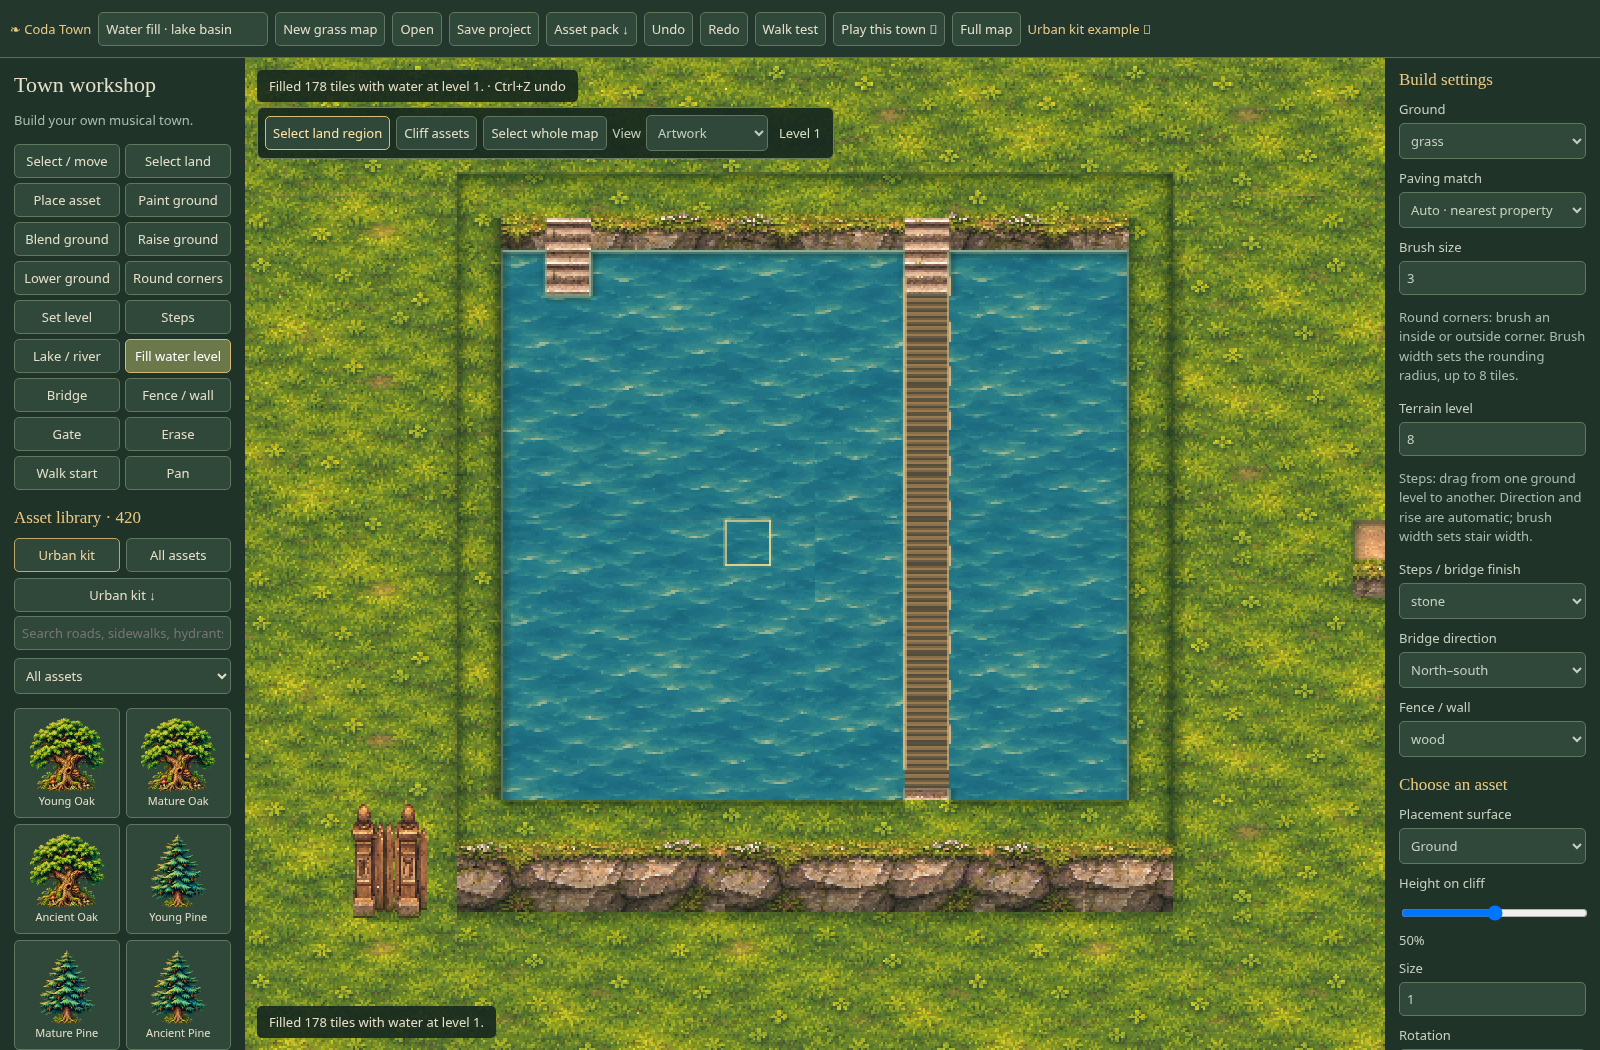
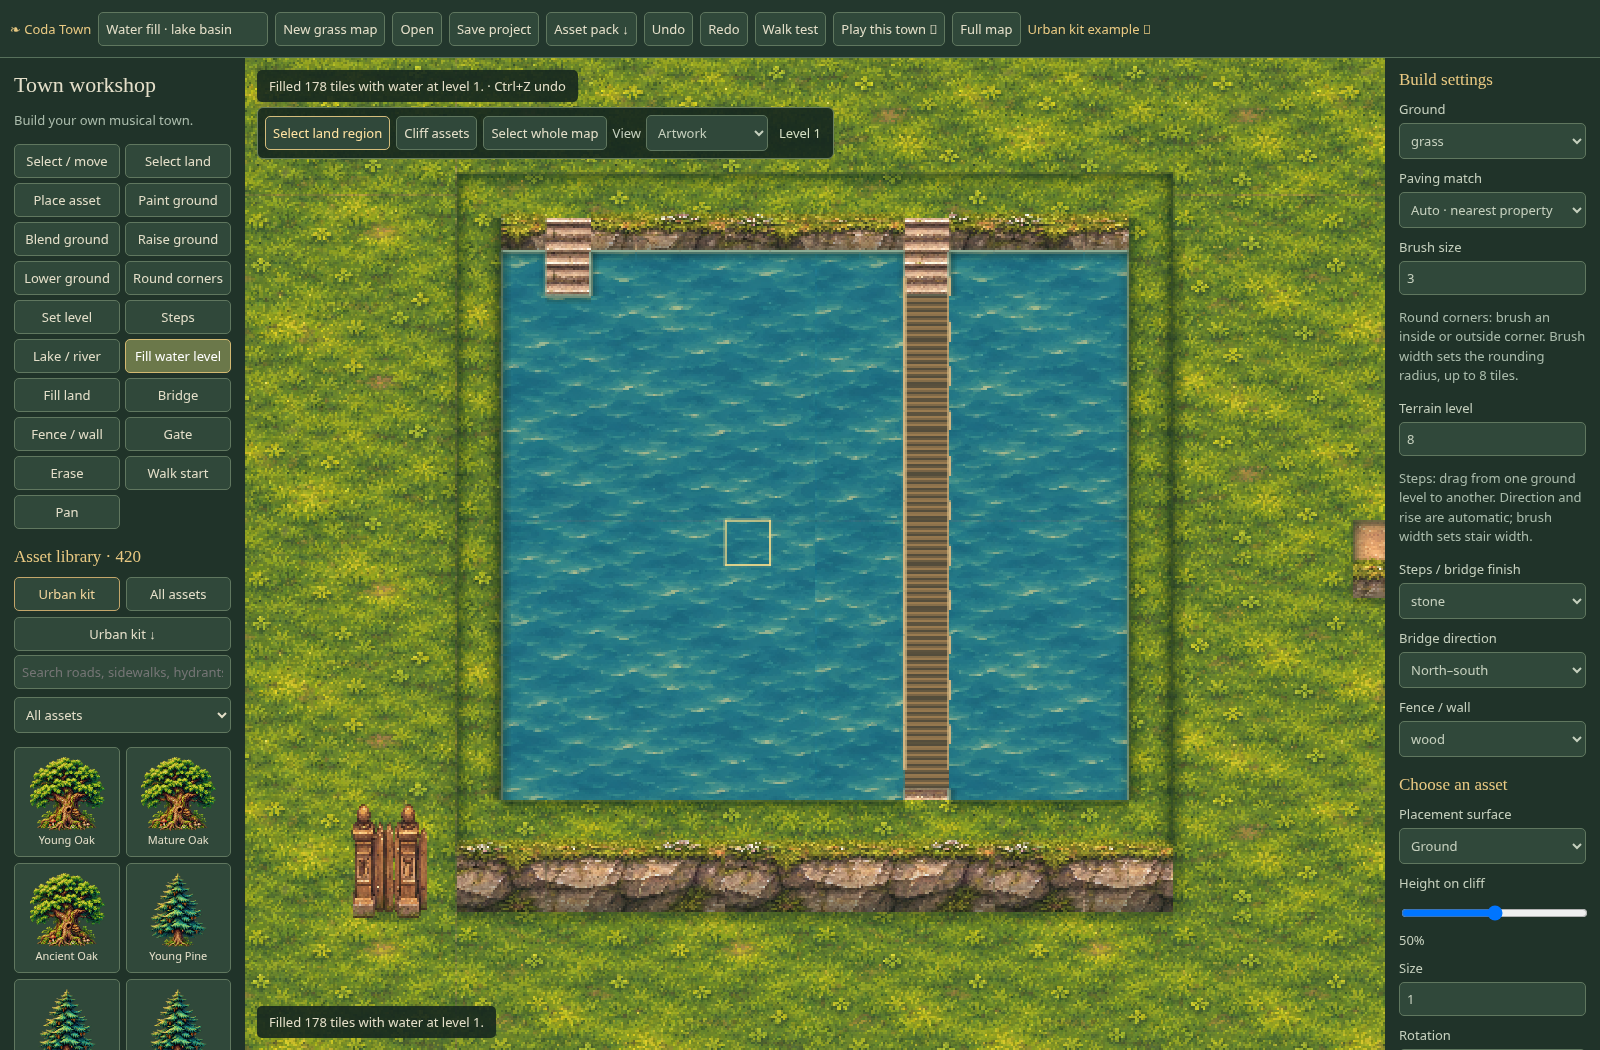
Add land fill for reclaiming water with selected ground materials

Changed region(s): [[0.0, 0.4876, 0.1562, 1.0], [0.0938, 0.3657, 0.125, 0.4571], [0.0312, 0.3657, 0.0625, 0.4571]]

diff --git a/town/builder/index.html b/town/builder/index.html
@@ -1,3 +1,3 @@
 <!doctype html><html lang="en"><head><meta charset="utf-8"><meta name="viewport" content="width=device-width,initial-scale=1"><title>Coda Town · Builder</title><link rel="stylesheet" href="builder.css?v=urban-assets-2"></head><body>
 <header><a href="../">❧ Coda Town</a><input id="name" value="My Coda Town" aria-label="Town name" maxlength="100"><button id="new">New grass map</button><button id="open">Open</button><button id="save">Save project</button><button id="pack">Asset pack ↓</button><button id="undo">Undo</button><button id="redo">Redo</button><button id="walk">Walk test</button><button id="play">Play this town ↗</button><button id="fit">Full map</button><a href="../?urban=1" id="urbanTour">Urban kit example ↗</a></header>
-<main><aside><h1>Town workshop</h1><p>Build your own musical town.</p><div id="tools"></div><h2 id="assetLibraryTitle">Asset library</h2><div id="libraryShortcuts"><button id="urbanKit">Urban kit</button><button id="allAssets">All assets</button><button id="urbanPack">Urban kit ↓</button></div><p id="urbanKitHelp" hidden>Place buildings and street details. Road pieces snap together; rotate them in Build settings. Paint materials work with square tiles or a soft brush.</p><input id="search" placeholder="Search roads, sidewalks, hydrants…" aria-label="Search assets"><select id="category" aria-label="Asset category"><option value="">All assets</option></select><div id="library"></div></aside><section id="viewport"><canvas id="map" tabindex="0" aria-label="Town building canvas"></canvas><div id="mapTools"><button id="selectLand">Select land region</button><button id="cliffMount">Cliff assets</button><button id="cornerStyle" hidden>Corners: Smooth round ↻</button><button id="selectAllLand">Select whole map</button><label>View <select id="heightView"><option value="art">Artwork</option><option value="colors">Height colors</option><option value="plan">Elevation plan</option></select></label><span id="hoverLevel">Level 0</span></div><div id="heightLegend" hidden><b>Ground levels</b><div id="levelSwatches"></div><small>Lines mark height changes · arrows mark stairs</small></div><div id="hint">Drag to paint · right drag to pan · wheel to zoom</div><div id="status" role="status">Loading artwork…</div></section><aside id="inspector"><h2>Land selection</h2><label>Selection shape<select id="selectionShape"><option value="rectangle">Rectangle</option><option value="freeform">Freeform lasso</option></select></label><p id="regionInfo">Drag a rectangle or draw a freeform boundary in any view.</p><button id="raiseRegion" disabled>Raise selected land +1</button><button id="lowerRegion" disabled>Lower selected land −1</button><button id="clearRegion" disabled>Clear selection</button><h2 id="buildSettingsTitle">Build settings</h2><label>Ground<select id="surface"></select></label><label>Paving match<select id="paving"><option value="auto">Auto · nearest property</option></select></label><label>Brush size <input id="brush" type="number" min=".25" max="15" step=".25" value="3"></label><div id="groundBrushSettings" hidden><label>Painting shape<select id="groundShape"><option value="round">Round soft brush</option><option value="square">Square tiles</option></select></label><div id="softGroundControls"><label>Hardness <output id="brushHardnessValue">45%</output><input id="brushHardness" type="range" min="0" max="100" value="45"></label><label>Opacity / blend strength <output id="brushOpacityValue">100%</output><input id="brushOpacity" type="range" min="1" max="100" value="100"></label></div><p id="groundBrushHelp">Paint with a round, soft-edged brush. Blend ground softens existing material transitions. Water uses Lake / river.</p></div><p>Round corners: brush an inside or outside corner. Brush width sets the rounding radius, up to 8 tiles.</p><label>Terrain level <input id="level" type="number" min="0" max="8" value="1"></label><p>Steps: drag from one ground level to another. Direction and rise are automatic; brush width sets stair width.</p><label>Steps / bridge finish<select id="finish"><option>stone</option><option>wood</option><option>brick</option></select></label><label>Bridge direction<select id="bridge"><option value="ns">North–south</option><option value="ew">East–west</option></select></label><label>Fence / wall<select id="barrier"></select></label><h2 id="assetName">Choose an asset</h2><label>Placement surface<select id="mountSurface"><option value="ground">Ground</option><option value="cliff">Cliff face · south-facing</option></select></label><label>Height on cliff<input id="mountHeight" type="range" min="0" max="100" value="50"><span id="mountHeightLabel">50%</span></label><label>Size<input id="scale" type="number" min=".25" max="3" step=".25" value="1"></label><label>Rotation<select id="rotation"><option>0</option><option>90</option><option>180</option><option>270</option></select></label><label>Layer<select id="layer"><option>objects</option><option>overgrowth</option><option>ground</option></select></label><label><input id="collision" type="checkbox" checked> Asset collision</label><button id="duplicate">Duplicate selected</button><button id="delete">Delete selected</button><label><input id="grid" type="checkbox"> Grid</label><label><input id="showCollision" type="checkbox"> Show collision</label><p>Fill water level: click ground to flood its connected height. Height changes stop the fill; Undo restores it. Lake / river remains available for brush painting.</p><p>Raised ground blocks walking at cliff edges. Steps connect the ground levels you drag between. Water blocks walking; bridges cross it. E opens gates during walk test.</p><p>Fences snap to cell edges. Drag an L to join corners. Foliage uses the overgrowth layer.</p><p>Projects autosave in this browser. Save a project file for a portable backup.</p></aside></main><input id="file" type="file" accept=".json" hidden><script src="../../npc-visitors.js"></script><script src="../../character-renderer.js?v=urban-assets-2"></script><script src="../../furniture-catalog.js?v=urban-assets-2"></script><script src="../../notes-shop.js?v=urban-assets-2"></script><script type="module" src="app.mjs?v=water-fill-1"></script></body></html>
+<main><aside><h1>Town workshop</h1><p>Build your own musical town.</p><div id="tools"></div><h2 id="assetLibraryTitle">Asset library</h2><div id="libraryShortcuts"><button id="urbanKit">Urban kit</button><button id="allAssets">All assets</button><button id="urbanPack">Urban kit ↓</button></div><p id="urbanKitHelp" hidden>Place buildings and street details. Road pieces snap together; rotate them in Build settings. Paint materials work with square tiles or a soft brush.</p><input id="search" placeholder="Search roads, sidewalks, hydrants…" aria-label="Search assets"><select id="category" aria-label="Asset category"><option value="">All assets</option></select><div id="library"></div></aside><section id="viewport"><canvas id="map" tabindex="0" aria-label="Town building canvas"></canvas><div id="mapTools"><button id="selectLand">Select land region</button><button id="cliffMount">Cliff assets</button><button id="cornerStyle" hidden>Corners: Smooth round ↻</button><button id="selectAllLand">Select whole map</button><label>View <select id="heightView"><option value="art">Artwork</option><option value="colors">Height colors</option><option value="plan">Elevation plan</option></select></label><span id="hoverLevel">Level 0</span></div><div id="heightLegend" hidden><b>Ground levels</b><div id="levelSwatches"></div><small>Lines mark height changes · arrows mark stairs</small></div><div id="hint">Drag to paint · right drag to pan · wheel to zoom</div><div id="status" role="status">Loading artwork…</div></section><aside id="inspector"><h2>Land selection</h2><label>Selection shape<select id="selectionShape"><option value="rectangle">Rectangle</option><option value="freeform">Freeform lasso</option></select></label><p id="regionInfo">Drag a rectangle or draw a freeform boundary in any view.</p><button id="raiseRegion" disabled>Raise selected land +1</button><button id="lowerRegion" disabled>Lower selected land −1</button><button id="clearRegion" disabled>Clear selection</button><h2 id="buildSettingsTitle">Build settings</h2><label>Ground<select id="surface"></select></label><label>Paving match<select id="paving"><option value="auto">Auto · nearest property</option></select></label><label>Brush size <input id="brush" type="number" min=".25" max="15" step=".25" value="3"></label><div id="groundBrushSettings" hidden><label>Painting shape<select id="groundShape"><option value="round">Round soft brush</option><option value="square">Square tiles</option></select></label><div id="softGroundControls"><label>Hardness <output id="brushHardnessValue">45%</output><input id="brushHardness" type="range" min="0" max="100" value="45"></label><label>Opacity / blend strength <output id="brushOpacityValue">100%</output><input id="brushOpacity" type="range" min="1" max="100" value="100"></label></div><p id="groundBrushHelp">Paint with a round, soft-edged brush. Blend ground softens existing material transitions. Water uses Lake / river.</p></div><p>Round corners: brush an inside or outside corner. Brush width sets the rounding radius, up to 8 tiles.</p><label>Terrain level <input id="level" type="number" min="0" max="8" value="1"></label><p>Steps: drag from one ground level to another. Direction and rise are automatic; brush width sets stair width.</p><label>Steps / bridge finish<select id="finish"><option>stone</option><option>wood</option><option>brick</option></select></label><label>Bridge direction<select id="bridge"><option value="ns">North–south</option><option value="ew">East–west</option></select></label><label>Fence / wall<select id="barrier"></select></label><h2 id="assetName">Choose an asset</h2><label>Placement surface<select id="mountSurface"><option value="ground">Ground</option><option value="cliff">Cliff face · south-facing</option></select></label><label>Height on cliff<input id="mountHeight" type="range" min="0" max="100" value="50"><span id="mountHeightLabel">50%</span></label><label>Size<input id="scale" type="number" min=".25" max="3" step=".25" value="1"></label><label>Rotation<select id="rotation"><option>0</option><option>90</option><option>180</option><option>270</option></select></label><label>Layer<select id="layer"><option>objects</option><option>overgrowth</option><option>ground</option></select></label><label><input id="collision" type="checkbox" checked> Asset collision</label><button id="duplicate">Duplicate selected</button><button id="delete">Delete selected</button><label><input id="grid" type="checkbox"> Grid</label><label><input id="showCollision" type="checkbox"> Show collision</label><p>Fill water level floods connected ground at its clicked height. Fill land turns connected water into the selected Ground material, stopping at dry land and height changes. Each fill undoes in one step. Lake / river remains available for brush painting.</p><p>Raised ground blocks walking at cliff edges. Steps connect the ground levels you drag between. Water blocks walking; bridges cross it. E opens gates during walk test.</p><p>Fences snap to cell edges. Drag an L to join corners. Foliage uses the overgrowth layer.</p><p>Projects autosave in this browser. Save a project file for a portable backup.</p></aside></main><input id="file" type="file" accept=".json" hidden><script src="../../npc-visitors.js"></script><script src="../../character-renderer.js?v=urban-assets-2"></script><script src="../../furniture-catalog.js?v=urban-assets-2"></script><script src="../../notes-shop.js?v=urban-assets-2"></script><script type="module" src="app.mjs?v=land-fill-1"></script></body></html>

diff --git a/town/builder/land-fill-browser.py b/town/builder/land-fill-browser.py
@@ -1,0 +1,205 @@
+"""Land buckets reclaim connected water without crossing dry shores or heights."""
+from functools import partial
+from http.server import SimpleHTTPRequestHandler, ThreadingHTTPServer
+from pathlib import Path
+from tempfile import TemporaryDirectory
+import json
+import threading
+
+from playwright.sync_api import sync_playwright
+
+ROOT = Path(__file__).resolve().parents[2]
+
+
+class Quiet(SimpleHTTPRequestHandler):
+    def log_message(self, *_):
+        pass
+
+
+def basin(name):
+    cells = {}
+    for y in range(89, 104):
+        for x in range(120, 136):
+            rim = x in (120, 135) or y in (89, 103)
+            cells[f'{x},{y}'] = {'surface': 'grass' if rim or x == 128 else 'water', 'level': 2 if rim else 1}
+    cells['124,96'] = {'surface': 'grass', 'level': 1}  # A dry island is a fill boundary.
+    for y in range(91, 102):
+        cells[f'126,{y}'] = {'surface': 'water', 'level': 1, 'bridge': 'ns', 'finish': 'wood'}
+    cells['123,90'] = {'surface': 'wood', 'level': 1, 'stairs': 'north', 'finish': 'stone'}
+    cells['140,96'] = {'surface': 'water', 'level': 3}
+    cells['140,98'] = {'surface': 'water', 'level': 1}
+    return {'version': 1, 'name': name, 'cells': cells,
+            'edges': {'h:118:104': {'style': 'wood', 'gate': False, 'open': False}},
+            'objects': [], 'spawn': {'x': 125.5*64, 'y': 96.5*64}}
+
+
+server = ThreadingHTTPServer(('127.0.0.1', 0), partial(Quiet, directory=str(ROOT)))
+threading.Thread(target=server.serve_forever, daemon=True).start()
+base = f'http://127.0.0.1:{server.server_port}'
+try:
+    with sync_playwright() as p, TemporaryDirectory() as downloads:
+        browser = p.chromium.launch(executable_path='/usr/bin/chromium', args=['--no-sandbox'])
+        page = browser.new_page(viewport={'width': 1600, 'height': 1050}, accept_downloads=True)
+        errors = []
+        page.on('pageerror', lambda error: errors.append(str(error)))
+        page.goto(base+'/town/builder/')
+        page.wait_for_function('!!window.townBuilder', timeout=90000)
+        assert page.locator('[data-tool="fillLand"]').count() == 1
+        assert page.locator('[data-tool="fillWater"]').count() == 1
+        assert page.locator('[data-tool="water"]').count() == 1
+        dependencies = page.evaluate('''async()=>{
+          const url=document.querySelector('script[type="module"]').src,code=await(await fetch(url)).text();
+          const dependency=needle=>new URL(code.split(String.fromCharCode(10)).find(line=>line.includes(needle)).split("'")[1],url).href;
+          return {model:dependency('../world/model.mjs'),runtime:dependency('../world/runtime.mjs'),round:dependency('./round-terrain.mjs')};
+        }''')
+
+        def state():
+            return page.evaluate('JSON.stringify(townBuilder.project)')
+
+        def load(doc, material='grass', view='art'):
+            page.locator('#file').set_input_files({'name': 'land-basin.json', 'mimeType': 'application/json', 'buffer': json.dumps(doc).encode()})
+            page.wait_for_function('(name)=>townBuilder.project.name===name', arg=doc['name'])
+            page.evaluate('Object.assign(townBuilder.cam,{x:8192,y:6144,zoom:.7})')
+            page.locator('#heightView').select_option(view)
+            page.locator('#surface').select_option(material)
+            page.locator('#paving').select_option('music-square')
+            page.locator('#level').fill('8')
+            page.locator('[data-tool="fillLand"]').click()
+            assert page.locator('#heightView').input_value() == view
+
+        def point(x, y):
+            return page.evaluate('''async({x,y,url})=>{
+              const {height}=await import(url),r=document.getElementById('map').getBoundingClientRect(),cam=townBuilder.cam;
+              const z=document.getElementById('heightView').value==='plan'?0:height(townBuilder.project,x,y);
+              return {x:r.x+r.width/2+(x-cam.x)*cam.zoom,y:r.y+r.height/2+(y-z-cam.y)*cam.zoom};
+            }''', {'x': x, 'y': y, 'url': dependencies['model']})
+
+        def click(x, y):
+            pos = point(x, y)
+            page.mouse.click(pos['x'], pos['y'])
+
+        def expected_land(original, material):
+            expected = json.loads(json.dumps(original))
+            for y in range(90, 103):
+                for x in range(121, 128):
+                    cell = expected['cells'][f'{x},{y}']
+                    if cell['surface'] == 'water' and 'stairs' not in cell:
+                        cell['surface'] = material
+                        if material == 'cobble':
+                            cell['paving'] = 'music-square'
+            return expected
+
+        seed = (125.5*64, 96.5*64)
+        # Each dry material is available, and cobble uses the chosen donor.
+        for material in ['grass', 'dirt', 'sand', 'wood', 'cobble', 'asphalt', 'sidewalk', 'brick']:
+            original = basin('Land fill · '+material)
+            load(original, material)
+            before = state()
+            click(*seed)
+            assert json.loads(state()) == expected_land(original, material), material
+            assert page.locator('#level').input_value() == '8'
+            after = state()
+            click(*seed)  # Already-dry clicks must not insert an empty undo entry.
+            assert state() == after
+            page.locator('#undo').click()
+            assert state() == before, 'One land fill (plus no-op) must be one undo action.'
+            page.locator('#redo').click()
+            assert state() == after
+
+        # The chosen height must follow the projected ground in every view.
+        for view in ['colors', 'plan']:
+            original = basin('Land fill · '+view)
+            load(original, 'dirt', view)
+            click(*seed)
+            assert json.loads(state()) == expected_land(original, 'dirt')
+
+        # A rounded shoreline has grass and water inside the same terrain tile.
+        # Reclaim only the actual water footprint, including its curved edge.
+        rounded = basin('Land fill · rounded shore')
+        for y in range(90, 103):
+            for x in range(121, 135):
+                rounded['cells'][f'{x},{y}'] = {'surface': 'water' if 125 <= x <= 127 and 94 <= y <= 96 else 'grass', 'level': 1}
+        load(rounded, 'sand')
+        page.evaluate('''async url=>{
+          const {roundTerrain}=await import(url),d=townBuilder.project;
+          Object.assign(d.cells,Object.fromEntries(roundTerrain(d,{x:125.5*64,y:94.5*64},3).edits));
+        }''', dependencies['round'])
+        samples = page.evaluate('''async url=>{
+          const {height,surfaceAt}=await import(url),d=townBuilder.project,points=[];
+          for(let y=93*64+2;y<98*64;y+=8)for(let x=124*64+2;x<129*64;x+=8)points.push({x,y,z:height(d,x,y),surface:surfaceAt(d,x,y)});
+          return points;
+        }''', dependencies['model'])
+        assert page.evaluate('Object.values(townBuilder.project.cells).some(c=>c.curves?.length)')
+        click(126.5*64, 95.5*64)
+        assert page.evaluate('''async({url,points})=>{
+          const {height,surfaceAt}=await import(url),d=townBuilder.project;
+          return points.every(p=>height(d,p.x,p.y)===p.z&&surfaceAt(d,p.x,p.y)===(p.surface==='water'?'sand':p.surface));
+        }''', {'url': dependencies['model'], 'points': samples}), 'Land fill reshaped the rounded shoreline or repainted its dry grass.'
+
+        original = basin('Land fill · reclaimed shore')
+        load(original)
+        click(*seed)
+        dry = expected_land(original, 'grass')
+        assert json.loads(state()) == dry
+        after = state()
+        start, end = point(*seed), point(132.5*64, 96.5*64)
+        page.mouse.move(start['x'], start['y'])
+        page.mouse.down()
+        page.mouse.move(end['x'], end['y'], steps=10)
+        page.mouse.up()
+        assert state() == after, 'A held land bucket must not drain a second basin.'
+        page.mouse.move(start['x'], start['y'])
+        page.mouse.down(button='right')
+        page.mouse.move(start['x']+35, start['y']+15, steps=4)
+        page.mouse.up(button='right')
+        assert state() == after, 'Right-drag pan must not alter water.'
+
+        # The existing water bucket keeps its broader same-height behavior.
+        page.locator('[data-tool="fillWater"]').click()
+        click(*seed)
+        rewetted = json.loads(state())
+        assert rewetted['cells']['125,96']['surface'] == 'water'
+        assert rewetted['cells']['124,96']['surface'] == 'water'
+        assert rewetted['cells']['128,96']['surface'] == 'water'
+        assert rewetted['cells']['140,98']['surface'] == 'water'
+        page.locator('#undo').click()
+        assert json.loads(state()) == dry
+        page.locator('[data-tool="fillLand"]').click()
+        page.evaluate('Object.assign(townBuilder.cam,{x:8192,y:6144,zoom:.7})')
+        page.screenshot(path=str(ROOT/'docs/town-preview/land-fill.png'))
+
+        collision = page.evaluate('''async url=>{
+          const {blocked}=await import(url),d=townBuilder.project,c=townBuilder.catalog;
+          return {land:blocked(d,125.5*64,96.5*64,c),water:blocked(d,132.5*64,96.5*64,c),bridge:blocked(d,126.5*64,96.5*64,c)};
+        }''', dependencies['model'])
+        assert collision == {'land': False, 'water': True, 'bridge': False}
+        with page.expect_download() as download_info:
+            page.locator('#save').click()
+        saved_file = Path(downloads)/'land-fill.json'
+        download_info.value.save_as(saved_file)
+        assert json.loads(saved_file.read_text()) == dry
+        page.evaluate('townBuilder.project.cells={}')
+        page.locator('#file').set_input_files(str(saved_file))
+        page.wait_for_function('townBuilder.project.cells["125,96"]?.surface==="grass"')
+        assert json.loads(state()) == dry
+        page.wait_for_function('document.getElementById("status").textContent.startsWith("Saved in this browser")')
+        page.reload()
+        page.wait_for_function('window.townBuilder?.project.cells["125,96"]?.surface==="grass"', timeout=90000)
+        assert json.loads(state()) == dry
+
+        # Play the exact authored terrain and move from new land to its shore.
+        page.locator('#play').click()
+        page.wait_for_function('!!window.townGame', timeout=90000)
+        assert json.loads(page.evaluate('JSON.stringify(townGame.project)')) == dry
+        page.evaluate('Object.assign(townGame.player,{x:128.5*64,y:96.5*64})')
+        before_x = page.evaluate('townGame.player.x')
+        page.keyboard.down('d')
+        page.wait_for_timeout(350)
+        page.keyboard.up('d')
+        assert before_x < page.evaluate('townGame.player.x') < 129*64
+        assert not errors, errors
+        browser.close()
+finally:
+    server.shutdown()
+
+print('Land fill browser checks passed: selected materials, water-only height boundaries, bridges/stairs, one-step undo, saves, and playable reclaimed land.')
